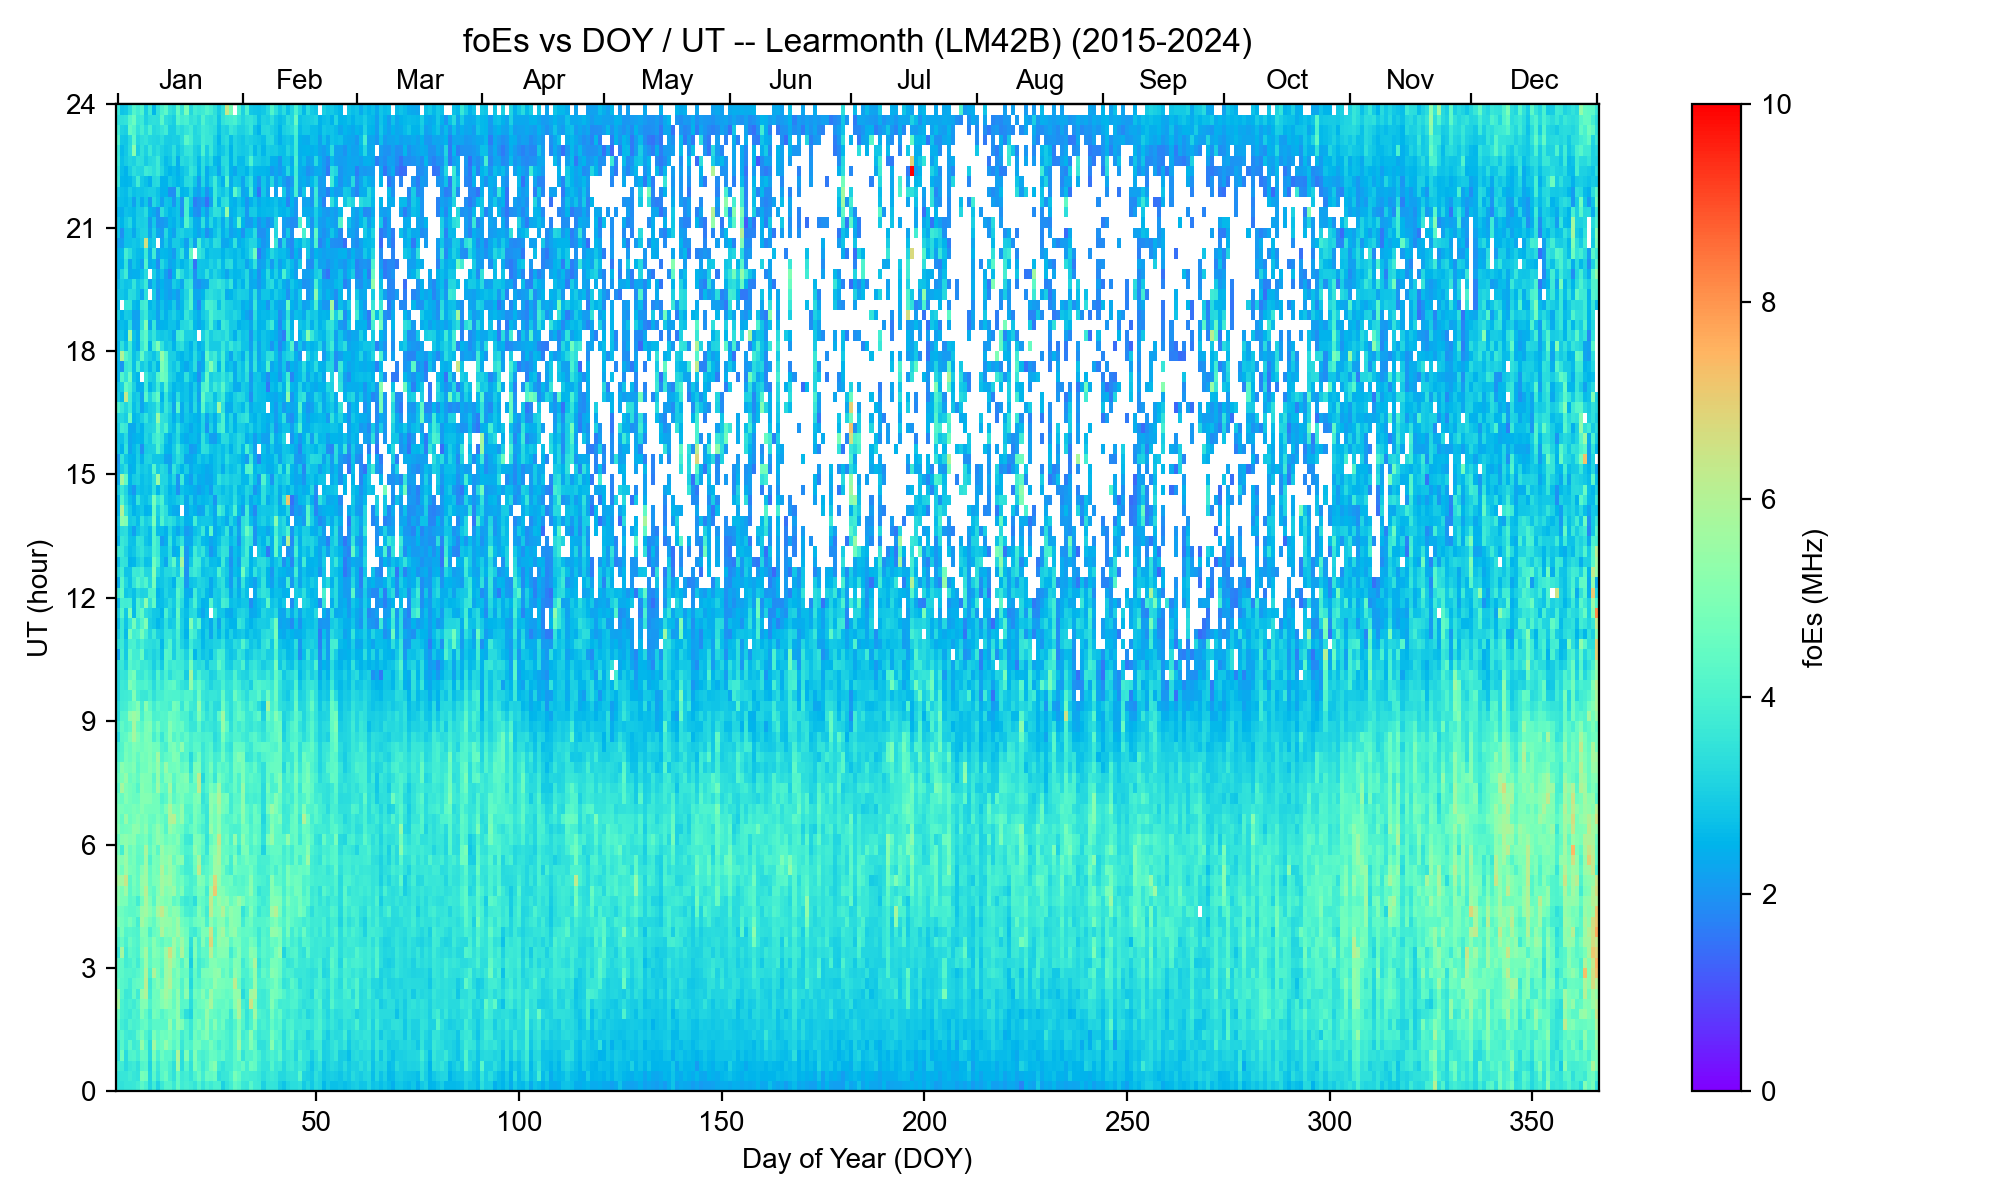
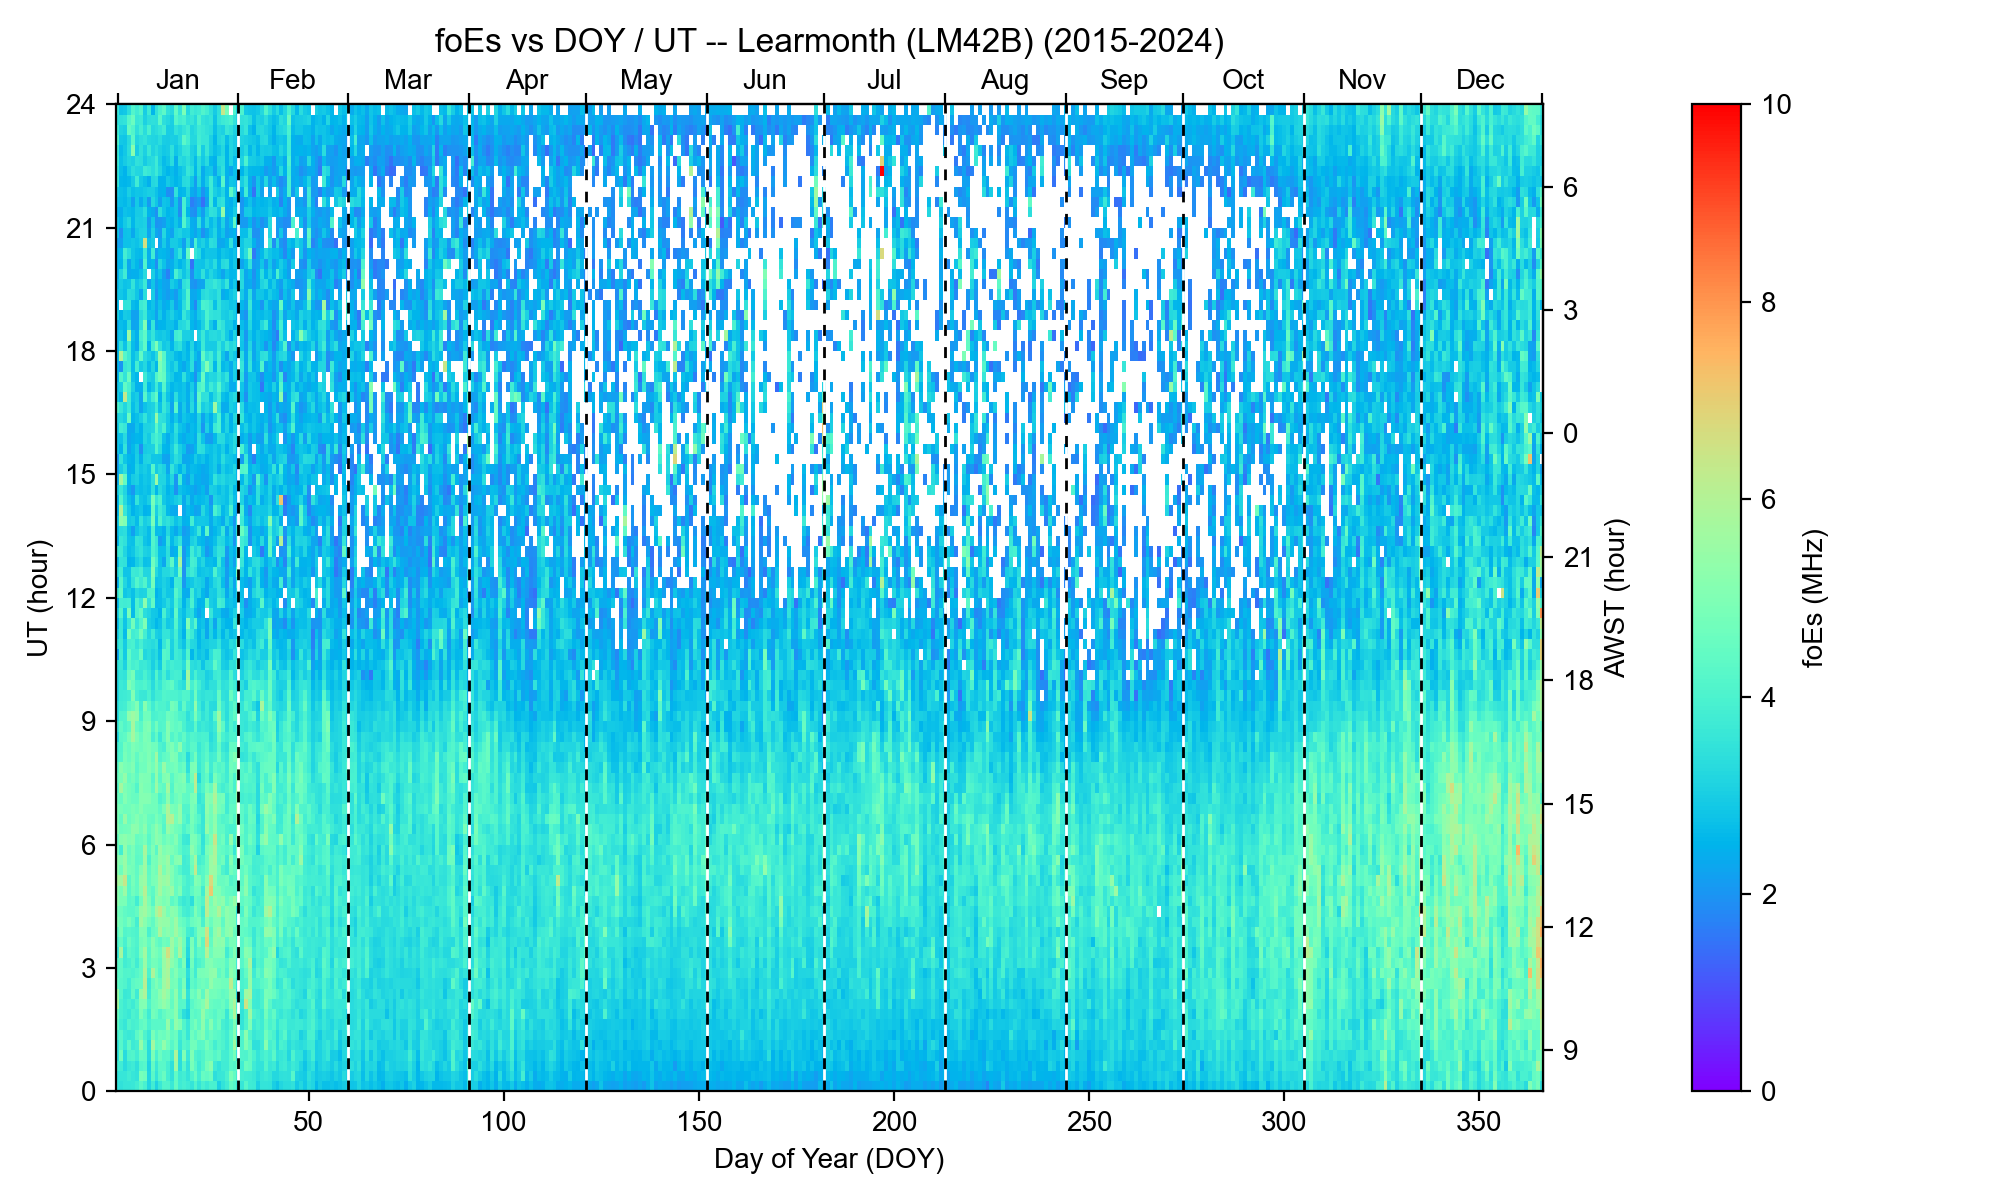
Add local-time secondary axis, month dashed lines, and colorbar tweaks
- Right y-axis now shows each station's local standard time (AWST for
  Western Australia, JST for Japan), wrapped to 0-24h at 3h ticks.
- Add black/white dashed vertical lines at internal month boundaries
  (Feb-Dec starts) as a visual guide, skipping the DOY=1/366 edges.
- Nudge the colorbar right (pad=0.08) so it doesn't crowd the new axis.
- Refresh example images in examples/ to match.

diff --git a/plot_foes_doy_ut.py b/plot_foes_doy_ut.py
@@ -60,13 +60,21 @@ import requests
 
 STATIONS = {
     # Western Australia -- served live by GIRO/DIDBase FastChar API
-    "LM42B": {"name": "Learmonth", "lon": 114.10, "lat": -21.8, "source": "GIRO"},
-    "PE43K": {"name": "Perth", "lon": 116.13, "lat": -32.0, "source": "GIRO"},
+    # (AWST = Australian Western Standard Time, UTC+8, no daylight saving)
+    "LM42B": {"name": "Learmonth", "lon": 114.10, "lat": -21.8, "source": "GIRO",
+              "utc_offset": 8, "tz_label": "AWST"},
+    "PE43K": {"name": "Perth", "lon": 116.13, "lat": -32.0, "source": "GIRO",
+              "utc_offset": 8, "tz_label": "AWST"},
     # Japan -- manually-scaled hourly values from NICT WDC for Ionosphere
-    "WK546": {"name": "Wakkanai/Sarobetsu", "lon": 141.75, "lat": 45.16, "source": "NICT"},
-    "TO536": {"name": "Kokubunji", "lon": 139.49, "lat": 35.71, "source": "NICT"},
-    "YG431": {"name": "Yamagawa", "lon": 130.62, "lat": 31.20, "source": "NICT"},
-    "OK426": {"name": "Okinawa/Ogimi", "lon": 128.15, "lat": 26.68, "source": "NICT"},
+    # (JST = Japan Standard Time, UTC+9, no daylight saving)
+    "WK546": {"name": "Wakkanai/Sarobetsu", "lon": 141.75, "lat": 45.16, "source": "NICT",
+              "utc_offset": 9, "tz_label": "JST"},
+    "TO536": {"name": "Kokubunji", "lon": 139.49, "lat": 35.71, "source": "NICT",
+              "utc_offset": 9, "tz_label": "JST"},
+    "YG431": {"name": "Yamagawa", "lon": 130.62, "lat": 31.20, "source": "NICT",
+              "utc_offset": 9, "tz_label": "JST"},
+    "OK426": {"name": "Okinawa/Ogimi", "lon": 128.15, "lat": 26.68, "source": "NICT",
+              "utc_offset": 9, "tz_label": "JST"},
 }
 
 FASTCHAR_URL = "https://lgdc.uml.edu/fastchar/getbest"
@@ -327,12 +335,13 @@ def bin_doy_ut(df: pd.DataFrame, char_name: str = "foEs",
 
 def plot_doy_ut(doy_edges_or_centers, ut_edges_or_centers, grid,
                  station_label: str, year_start: int, year_end: int,
-                 char_name: str = "foEs", out_png: Path | None = None):
+                 char_name: str = "foEs", out_png: Path | None = None,
+                 utc_offset: float | None = None, tz_label: str | None = None):
     fig, ax = plt.subplots(figsize=(10, 6))
 
     mesh = ax.pcolormesh(doy_edges_or_centers, ut_edges_or_centers, grid,
                           shading="nearest", cmap="rainbow", vmin=0, vmax=10)
-    cbar = fig.colorbar(mesh, ax=ax)
+    cbar = fig.colorbar(mesh, ax=ax, pad=0.08)
     cbar.set_label(f"{char_name} (MHz)")
 
     ax.set_xlabel("Day of Year (DOY)")
@@ -342,12 +351,31 @@ def plot_doy_ut(doy_edges_or_centers, ut_edges_or_centers, grid,
     ax.set_title(f"{char_name} vs DOY / UT -- {station_label} "
                  f"({year_start}-{year_end})")
 
+    # Secondary right axis: local standard time (e.g. AWST/JST), wrapped to
+    # 0-24 h with the same 3-hour tick spacing as the UT axis. Local time is
+    # UT + utc_offset, so a given local hour sits at UT = (local - offset) mod 24.
+    if utc_offset is not None:
+        local_hours = np.arange(0, 24, 3)
+        tick_ut = np.sort((local_hours - utc_offset) % 24)
+        tick_labels = [str(int(round((u + utc_offset) % 24))) for u in tick_ut]
+        ax_right = ax.secondary_yaxis("right")
+        ax_right.set_yticks(tick_ut)
+        ax_right.set_yticklabels(tick_labels)
+        ax_right.set_ylabel(f"{tz_label} (hour)" if tz_label else "Local time (hour)")
+
     # Secondary top axis: month names as an auxiliary guide to the DOY axis
     # (non-leap-year day-of-year boundaries; close enough for a visual guide).
     month_starts = [1, 32, 60, 91, 121, 152, 182, 213, 244, 274, 305, 335, 366]
     month_names = ["Jan", "Feb", "Mar", "Apr", "May", "Jun",
                     "Jul", "Aug", "Sep", "Oct", "Nov", "Dec"]
     month_mids = [0.5 * (a + b) for a, b in zip(month_starts[:-1], month_starts[1:])]
+
+    # Black/white "railroad-track" dashed lines at month boundaries, so they
+    # stay visible against every color in the rainbow colormap. Skip the
+    # DOY=1 and DOY=366 edges (start of Jan / end of Dec).
+    for x in month_starts[1:-1]:
+        ax.axvline(x, color="black", linestyle=(0, (4, 4)), linewidth=1.0, zorder=5)
+        ax.axvline(x, color="white", linestyle=(4, (4, 4)), linewidth=1.0, zorder=5)
 
     ax_top = ax.secondary_xaxis("top")
     ax_top.set_xticks(month_starts)
@@ -416,7 +444,8 @@ def main():
                                             min_cs=args.min_cs)
             out_png = args.outdir / f"{args.station}_foEs_DOYvsUT_{year}.png"
             plot_doy_ut(doy_c, ut_c, grid, station_label, year, year,
-                        char_name="foEs", out_png=out_png)
+                        char_name="foEs", out_png=out_png,
+                        utc_offset=station["utc_offset"], tz_label=station["tz_label"])
     else:
         doy_c, ut_c, grid = bin_doy_ut(df, char_name="foEs",
                                         doy_bin=args.doy_bin, ut_bin=args.ut_bin,
@@ -425,7 +454,8 @@ def main():
         out_png = args.outdir / f"{args.station}_foEs_DOYvsUT_{args.year_start}-{args.year_end}.png"
         plot_doy_ut(doy_c, ut_c, grid, station_label,
                     args.year_start, args.year_end, char_name="foEs",
-                    out_png=out_png)
+                    out_png=out_png,
+                    utc_offset=station["utc_offset"], tz_label=station["tz_label"])
 
 
 if __name__ == "__main__":
